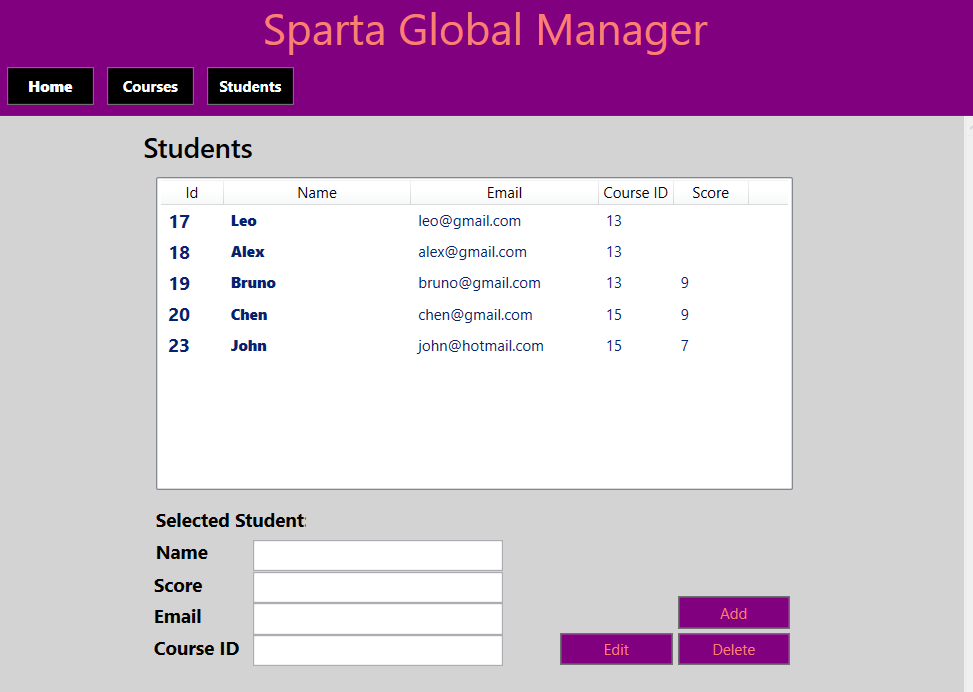
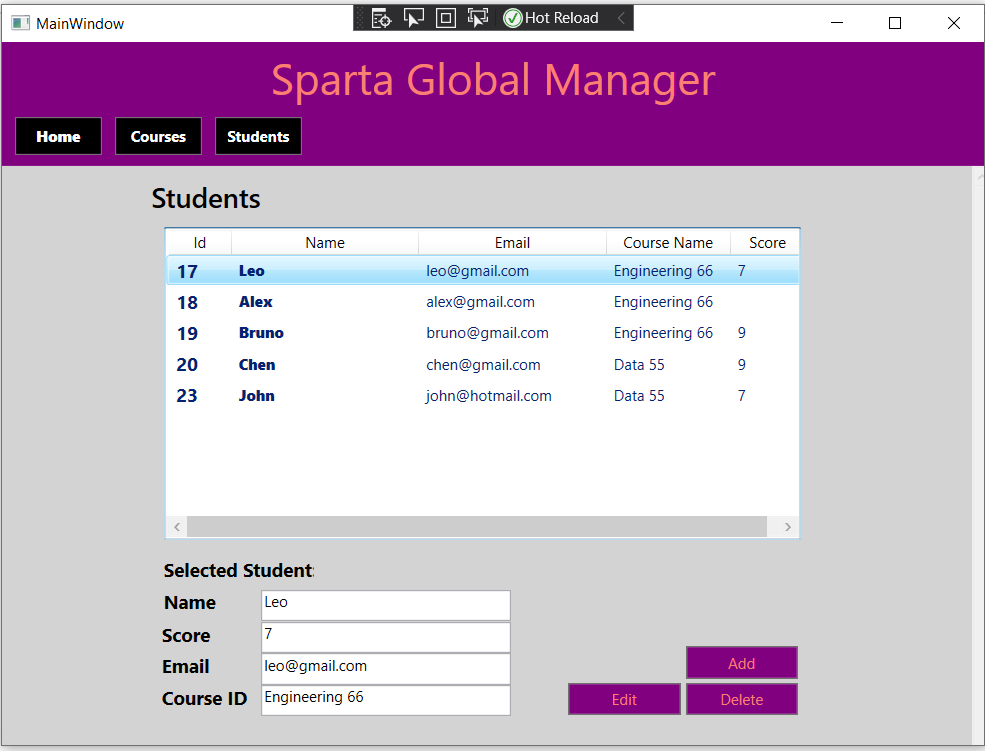
can display course name with student

Changed region(s): [[0.0, 0.0, 1.0, 1.0], [0.555, 0.8497, 0.8325, 0.9711], [0.0, 0.9711, 0.0308, 1.0]]

diff --git a/homework/SpartaGlobalAPI/SpartaGlobalView/Pages/Students/StudentsView.xaml b/homework/SpartaGlobalAPI/SpartaGlobalView/Pages/Students/StudentsView.xaml
@@ -23,7 +23,7 @@
                                         </DataTemplate>
                                     </GridViewColumn.CellTemplate>
                                 </GridViewColumn>
-                                <GridViewColumn Header="Name" Width="150">
+                                <GridViewColumn Header="Name" Width="100">
                                     <GridViewColumn.CellTemplate>
                                         <DataTemplate>
                                             <TextBlock Text="{Binding StudentName}" FontWeight="Black" HorizontalAlignment="Center"/>
@@ -37,10 +37,10 @@
                                         </DataTemplate>
                                     </GridViewColumn.CellTemplate>
                                 </GridViewColumn>
-                                <GridViewColumn Header="Course ID" Width="60">
+                                <GridViewColumn Header="Course Name" Width="130">
                                     <GridViewColumn.CellTemplate>
                                         <DataTemplate>
-                                            <TextBlock Text="{Binding CourseId}" FontWeight="Regular" />
+                                            <TextBlock Text="{Binding CourseName}" FontWeight="Regular" />
                                         </DataTemplate>
                                     </GridViewColumn.CellTemplate>
                                 </GridViewColumn>

diff --git a/homework/SpartaGlobalAPI/SpartaGlobalClient/Controllers/StudentsController.cs b/homework/SpartaGlobalAPI/SpartaGlobalClient/Controllers/StudentsController.cs
@@ -6,19 +6,20 @@ using System.Linq;
 using System.Net.Http;
 
 using SpartaGlobalClient.Models;
+using SpartaGlobalAPI.Models;
 
 namespace SpartaGlobalClient.Controllers
 {
     public class StudentsController
     {
-        public Student SelectedStudent { get; set; }
+        public DisplayStudentsWithCourseName SelectedStudent { get; set; }
         public Course SelectedCourse { get; set; }
 
         Uri urlStudents = new Uri("https://localhost:44355/api/Students");
 
         public Student student = new Student();
 
-        public List<Student> students = new List<Student>();
+        public List<DisplayStudentsWithCourseName> students = new List<DisplayStudentsWithCourseName>();
         public List<Student> studentsByCourse = new List<Student>();
 
         public async void GetStudentsAsync()
@@ -26,7 +27,7 @@ namespace SpartaGlobalClient.Controllers
             using (var httpClient = new HttpClient())
             {
                 var data = await httpClient.GetStringAsync(urlStudents);
-                students = JsonConvert.DeserializeObject<List<Student>>(data);
+                students = JsonConvert.DeserializeObject<List<DisplayStudentsWithCourseName>>(data);
             }
         }
 
@@ -35,7 +36,7 @@ namespace SpartaGlobalClient.Controllers
             using (var httpClient = new HttpClient())
             {
                 var data = httpClient.GetStringAsync(urlStudents);
-                students = JsonConvert.DeserializeObject<List<Student>>(data.Result);
+                students = JsonConvert.DeserializeObject<List<DisplayStudentsWithCourseName>>(data.Result);
             }
         }
 
@@ -43,7 +44,7 @@ namespace SpartaGlobalClient.Controllers
         {
             GetStudents();
             student = null;
-            student = students.Where(s => s.StudentId == studentId).FirstOrDefault();
+            //student = students.Where(s => s.StudentId == studentId).FirstOrDefault();
             if (student != null)
             {
                 return true;
@@ -65,8 +66,8 @@ namespace SpartaGlobalClient.Controllers
 
         public async void PostStudentAsync(Student newStudent)
         {
-            if (!StudentExists(newStudent.StudentId))
-            {
+            //if (!StudentExists(newStudent.StudentId))
+            //{
                 string newStudentAsJson = JsonConvert.SerializeObject(newStudent, Formatting.Indented);
 
                 var httpContent = new StringContent(newStudentAsJson);
@@ -82,11 +83,11 @@ namespace SpartaGlobalClient.Controllers
                         Console.WriteLine($"Record {newStudent.StudentName} successfully added");
                     }
                 }
-            }
-            else
-            {
-                Console.WriteLine($"Student with Name: {newStudent.StudentName} already exists, can't create a new Student");
-            }
+            //}
+            //else
+            //{
+            //    Console.WriteLine($"Student with Name: {newStudent.StudentName} already exists, can't create a new Student");
+            //}
         }
 
         public void PostStudent(string name, int courseId, string email)
@@ -97,8 +98,8 @@ namespace SpartaGlobalClient.Controllers
                 CourseId = courseId,
                 Email = email
             };
-            if (!StudentExists(newStudent.StudentId))
-            {
+            //if (!StudentExists(newStudent.StudentId))
+            //{
                 string newStudentAsJson = JsonConvert.SerializeObject(newStudent, Formatting.Indented);
 
                 var httpContent = new StringContent(newStudentAsJson);
@@ -114,17 +115,17 @@ namespace SpartaGlobalClient.Controllers
                         Console.WriteLine($"Record {newStudent.StudentName} successfully added");
                     }
                 }
-            }
-            else
-            {
-                Console.WriteLine($"Student with Name: {newStudent.StudentName} already exists, can't create a new Student");
-            }
+            //}
+            //else
+            //{
+            //    Console.WriteLine($"Student with Name: {newStudent.StudentName} already exists, can't create a new Student");
+            //}
         }
 
         public async void DeleteStudentAsync(int studentId)
         {
-            if (StudentExists(studentId) == true)
-            {
+            //if (StudentExists(studentId) == true)
+            //{
                 using (var httpClient = new HttpClient())
                 {
                     var httpResponse = await httpClient.DeleteAsync($"{urlStudents}/{studentId}");
@@ -133,17 +134,17 @@ namespace SpartaGlobalClient.Controllers
                         Console.WriteLine($"Student {studentId} successfully deleted");
                     }
                 }
-            }
-            else
-            {
-                Console.WriteLine($"A Student with ID: {studentId} doesn't exists, can't delete");
-            }
+            //}
+            //else
+            //{
+            //    Console.WriteLine($"A Student with ID: {studentId} doesn't exists, can't delete");
+            //}
         }
 
         public void DeleteStudent(int studentId)
         {
-            if (StudentExists(studentId) == true)
-            {
+            //if (StudentExists(studentId) == true)
+            //{
                 using (var httpClient = new HttpClient())
                 {
                     var httpResponse = httpClient.DeleteAsync($"{urlStudents}/{studentId}");
@@ -152,11 +153,11 @@ namespace SpartaGlobalClient.Controllers
                         Console.WriteLine($"Student {studentId} successfully deleted");
                     }
                 }
-            }
-            else
-            {
-                Console.WriteLine($"A Student with ID: {studentId} doesn't exists, can't delete");
-            }
+            //}
+            //else
+            //{
+            //    Console.WriteLine($"A Student with ID: {studentId} doesn't exists, can't delete");
+            //}
         }
 
         public async void UpdateStudentAsync(Student updateStudent)
@@ -197,8 +198,8 @@ namespace SpartaGlobalClient.Controllers
                 Email = email,
                 CourseId = courseId
             };
-            if (StudentExists(updateStudent.StudentId) == true)
-            {
+            //if (StudentExists(updateStudent.StudentId) == true)
+            //{
                 string updateStudentAsJson = JsonConvert.SerializeObject(updateStudent, Formatting.Indented);
 
                 // Convert this to HTTP
@@ -216,34 +217,17 @@ namespace SpartaGlobalClient.Controllers
                         Console.WriteLine($"Student {updateStudent.StudentId} successfully updated");
                     }
                 }
-            }
-            else
-            {
-                Console.WriteLine($"A student with ID: {updateStudent.StudentId} doesn't exists, can't update");
-            }
+            //}
+            //else
+            //{
+            //    Console.WriteLine($"A student with ID: {updateStudent.StudentId} doesn't exists, can't update");
+            //}
         }
 
         public void SetSelectedStudent(object selectedStudent)
         {
-            SelectedStudent = (Student)selectedStudent;
+            SelectedStudent = (DisplayStudentsWithCourseName)selectedStudent;
         }
 
-        public void SetSelectedCourse(object selectedCourse)
-        {
-            SelectedCourse = (Course)selectedCourse;
-        }
-
-        public List<Student> GetStudentsByCourse()
-        {
-            
-            foreach (var student in students)
-            {
-                if (SelectedCourse.CourseId == student.CourseId)
-                {
-                    studentsByCourse.Add(student);
-                }
-            }
-            return studentsByCourse;
-        }
     }
 }

diff --git a/homework/SpartaGlobalAPI/SpartaGlobalView/Pages/Students/StudentsView.xaml.cs b/homework/SpartaGlobalAPI/SpartaGlobalView/Pages/Students/StudentsView.xaml.cs
@@ -46,11 +46,11 @@ namespace SpartaGlobalView.Pages.Students
         private void ButtonEditStudent_Click(object sender, RoutedEventArgs e)
         {
             string name = StudentName.Text;
-            int type = Int32.Parse(Score.Text);
+            int score = Int32.Parse(Score.Text);
             int studentId = _studentsController.SelectedStudent.StudentId;
             string email = Email.Text;
             int courseId = Int32.Parse(CourseId.Text);
-            _studentsController.UpdateStudent(name, type, studentId, email, courseId);
+            _studentsController.UpdateStudent(name, score, studentId, email, courseId);
             MessageBox.Show("Course updated successfully");
             MainFrame.Navigate(new StudentsView());
             PopulateAllStudents();
@@ -79,7 +79,7 @@ namespace SpartaGlobalView.Pages.Students
                 StudentName.Text = _studentsController.SelectedStudent.StudentName;
                 Score.Text = _studentsController.SelectedStudent.Score.ToString();
                 Email.Text = _studentsController.SelectedStudent.Email;
-                CourseId.Text = _studentsController.SelectedStudent.CourseId.ToString();
+                CourseId.Text = _studentsController.SelectedStudent.CourseName.ToString();
             }
         }
 

diff --git a/homework/SpartaGlobalAPI/SpartaGlobalAPI/Controllers/StudentsController.cs b/homework/SpartaGlobalAPI/SpartaGlobalAPI/Controllers/StudentsController.cs
@@ -23,9 +23,19 @@ namespace SpartaGlobalAPI.Controllers
 
         // GET: api/Students
         [HttpGet]
-        public async Task<ActionResult<IEnumerable<Student>>> GetStudents()
+        public async Task<ActionResult<IEnumerable<DisplayStudentsWithCourseName>>> GetStudents()
         {
-            return await _context.Students.ToListAsync();
+            var returnObject =
+               (from student in _context.Students
+                select new DisplayStudentsWithCourseName()
+                {
+                    StudentId = student.StudentId,
+                    StudentName = student.StudentName,
+                    Email = student.Email,
+                    CourseName = student.Course.CourseName,
+                    Score = student.Score
+                }).ToListAsync<DisplayStudentsWithCourseName>();
+            return await returnObject;
         }
 
         // GET: api/Students/5

diff --git a/homework/SpartaGlobalAPI/SpartaGlobalAPI/Models/DisplayStudentsWithCourseName.cs b/homework/SpartaGlobalAPI/SpartaGlobalAPI/Models/DisplayStudentsWithCourseName.cs
@@ -1,0 +1,16 @@
+using System;
+using System.Collections.Generic;
+using System.Linq;
+using System.Threading.Tasks;
+
+namespace SpartaGlobalAPI.Models
+{
+    public class DisplayStudentsWithCourseName
+    {
+        public int StudentId { get; set; }
+        public string StudentName { get; set; }
+        public string Email { get; set; }
+        public string CourseName { get; set; }
+        public int? Score { get; set; }
+    }
+}

diff --git a/homework/SpartaGlobalAPI/SpartaGlobalClient/Models/DisplayStudentsWithCourseName.cs b/homework/SpartaGlobalAPI/SpartaGlobalClient/Models/DisplayStudentsWithCourseName.cs
@@ -1,0 +1,16 @@
+using System;
+using System.Collections.Generic;
+using System.Linq;
+using System.Threading.Tasks;
+
+namespace SpartaGlobalAPI.Models
+{
+    public class DisplayStudentsWithCourseName
+    {
+        public int StudentId { get; set; }
+        public string StudentName { get; set; }
+        public string Email { get; set; }
+        public string CourseName { get; set; }
+        public int? Score { get; set; }
+    }
+}
